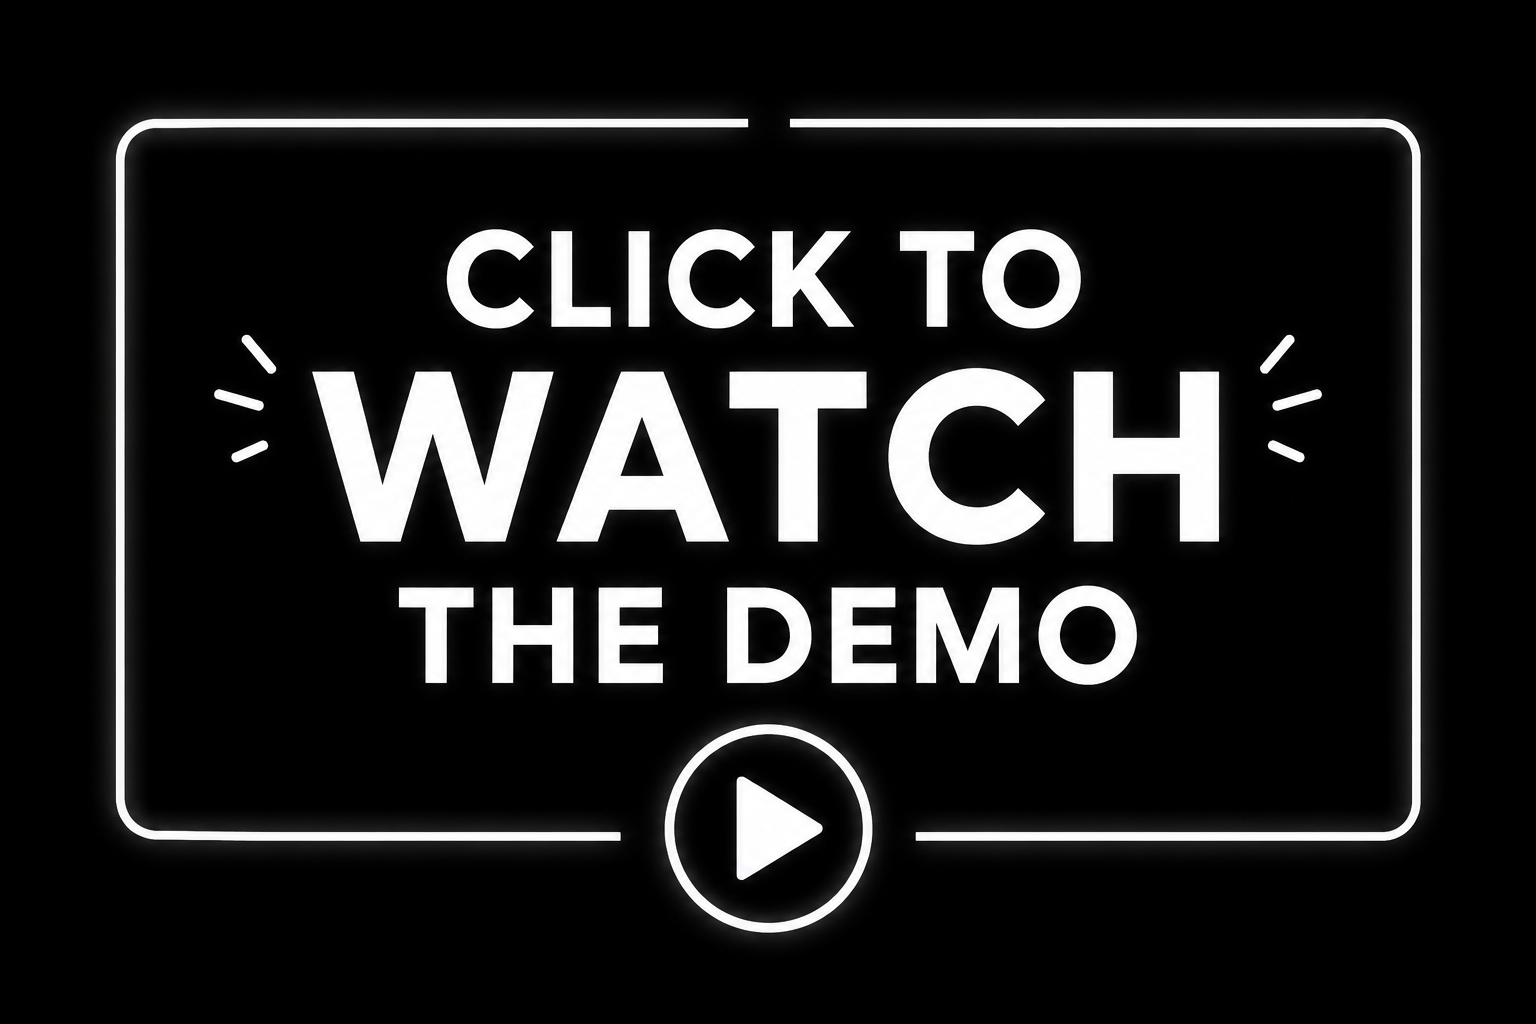
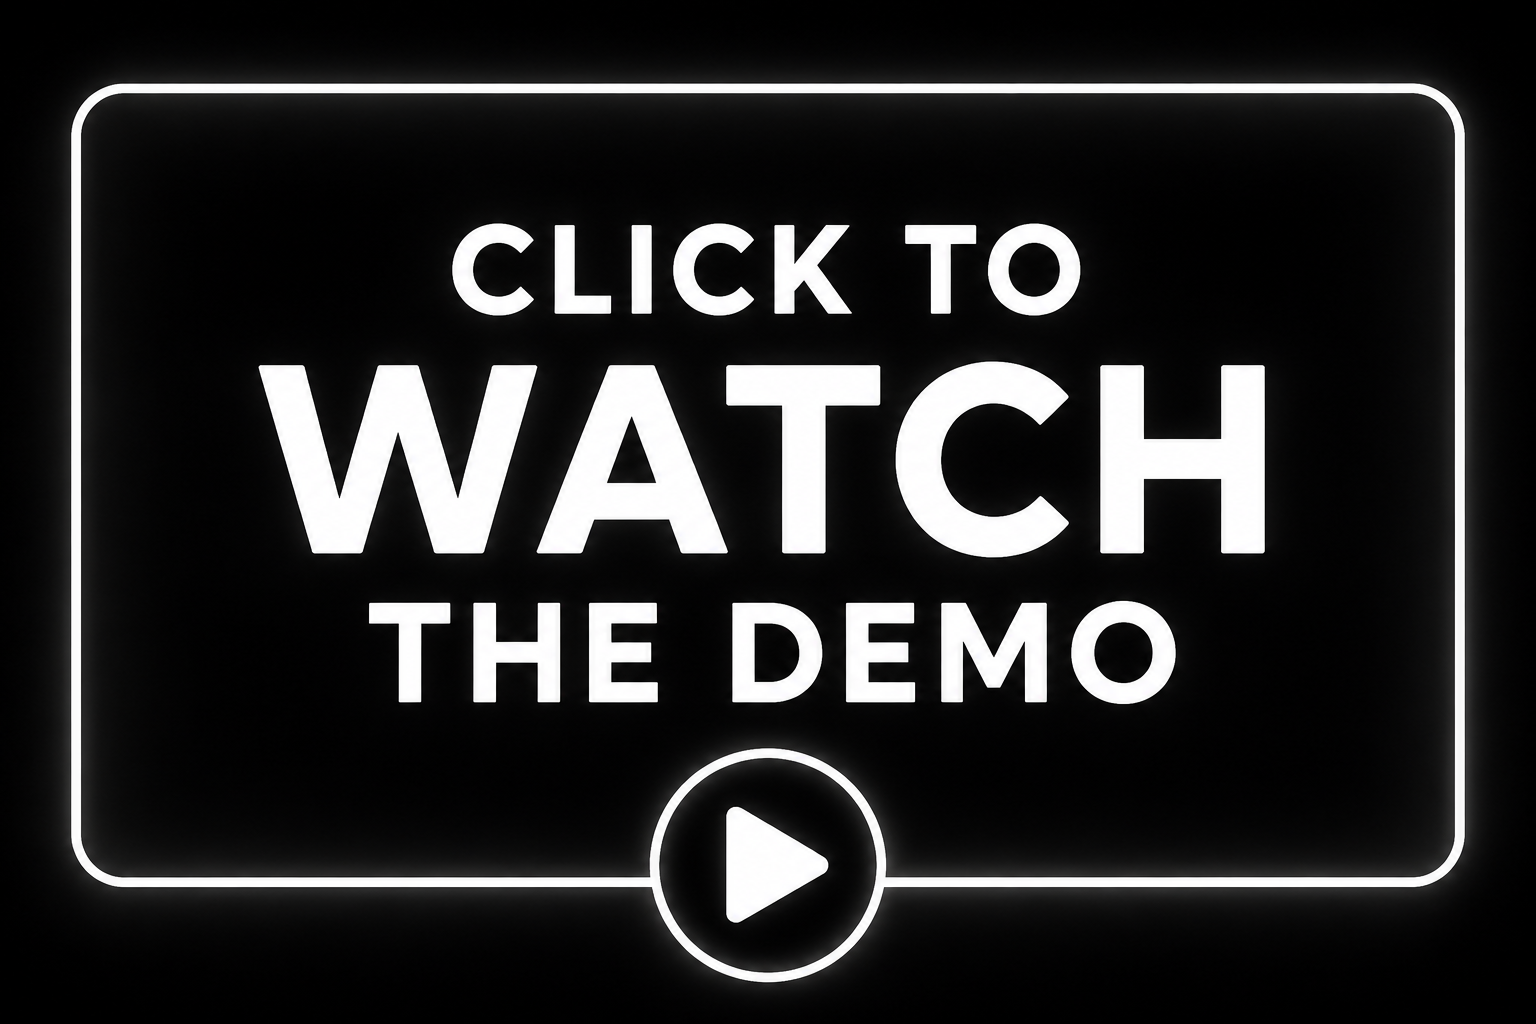
added a link to youtube demo

Changed region(s): [[0.0312, 0.0625, 0.9688, 0.9688]]

diff --git a/README.md b/README.md
@@ -12,7 +12,7 @@ ready for Download.
 
 <br>
 
-[![Watch the Demo](demo/Demo_thumbnail.png)](demo/PodTok_product_demo.mp4)
+[![Watch the Demo](demo/Demo_thumbnail.png)](https://www.youtube.com/watch?v=guvwshlTDBY)
 
 <br>
 
